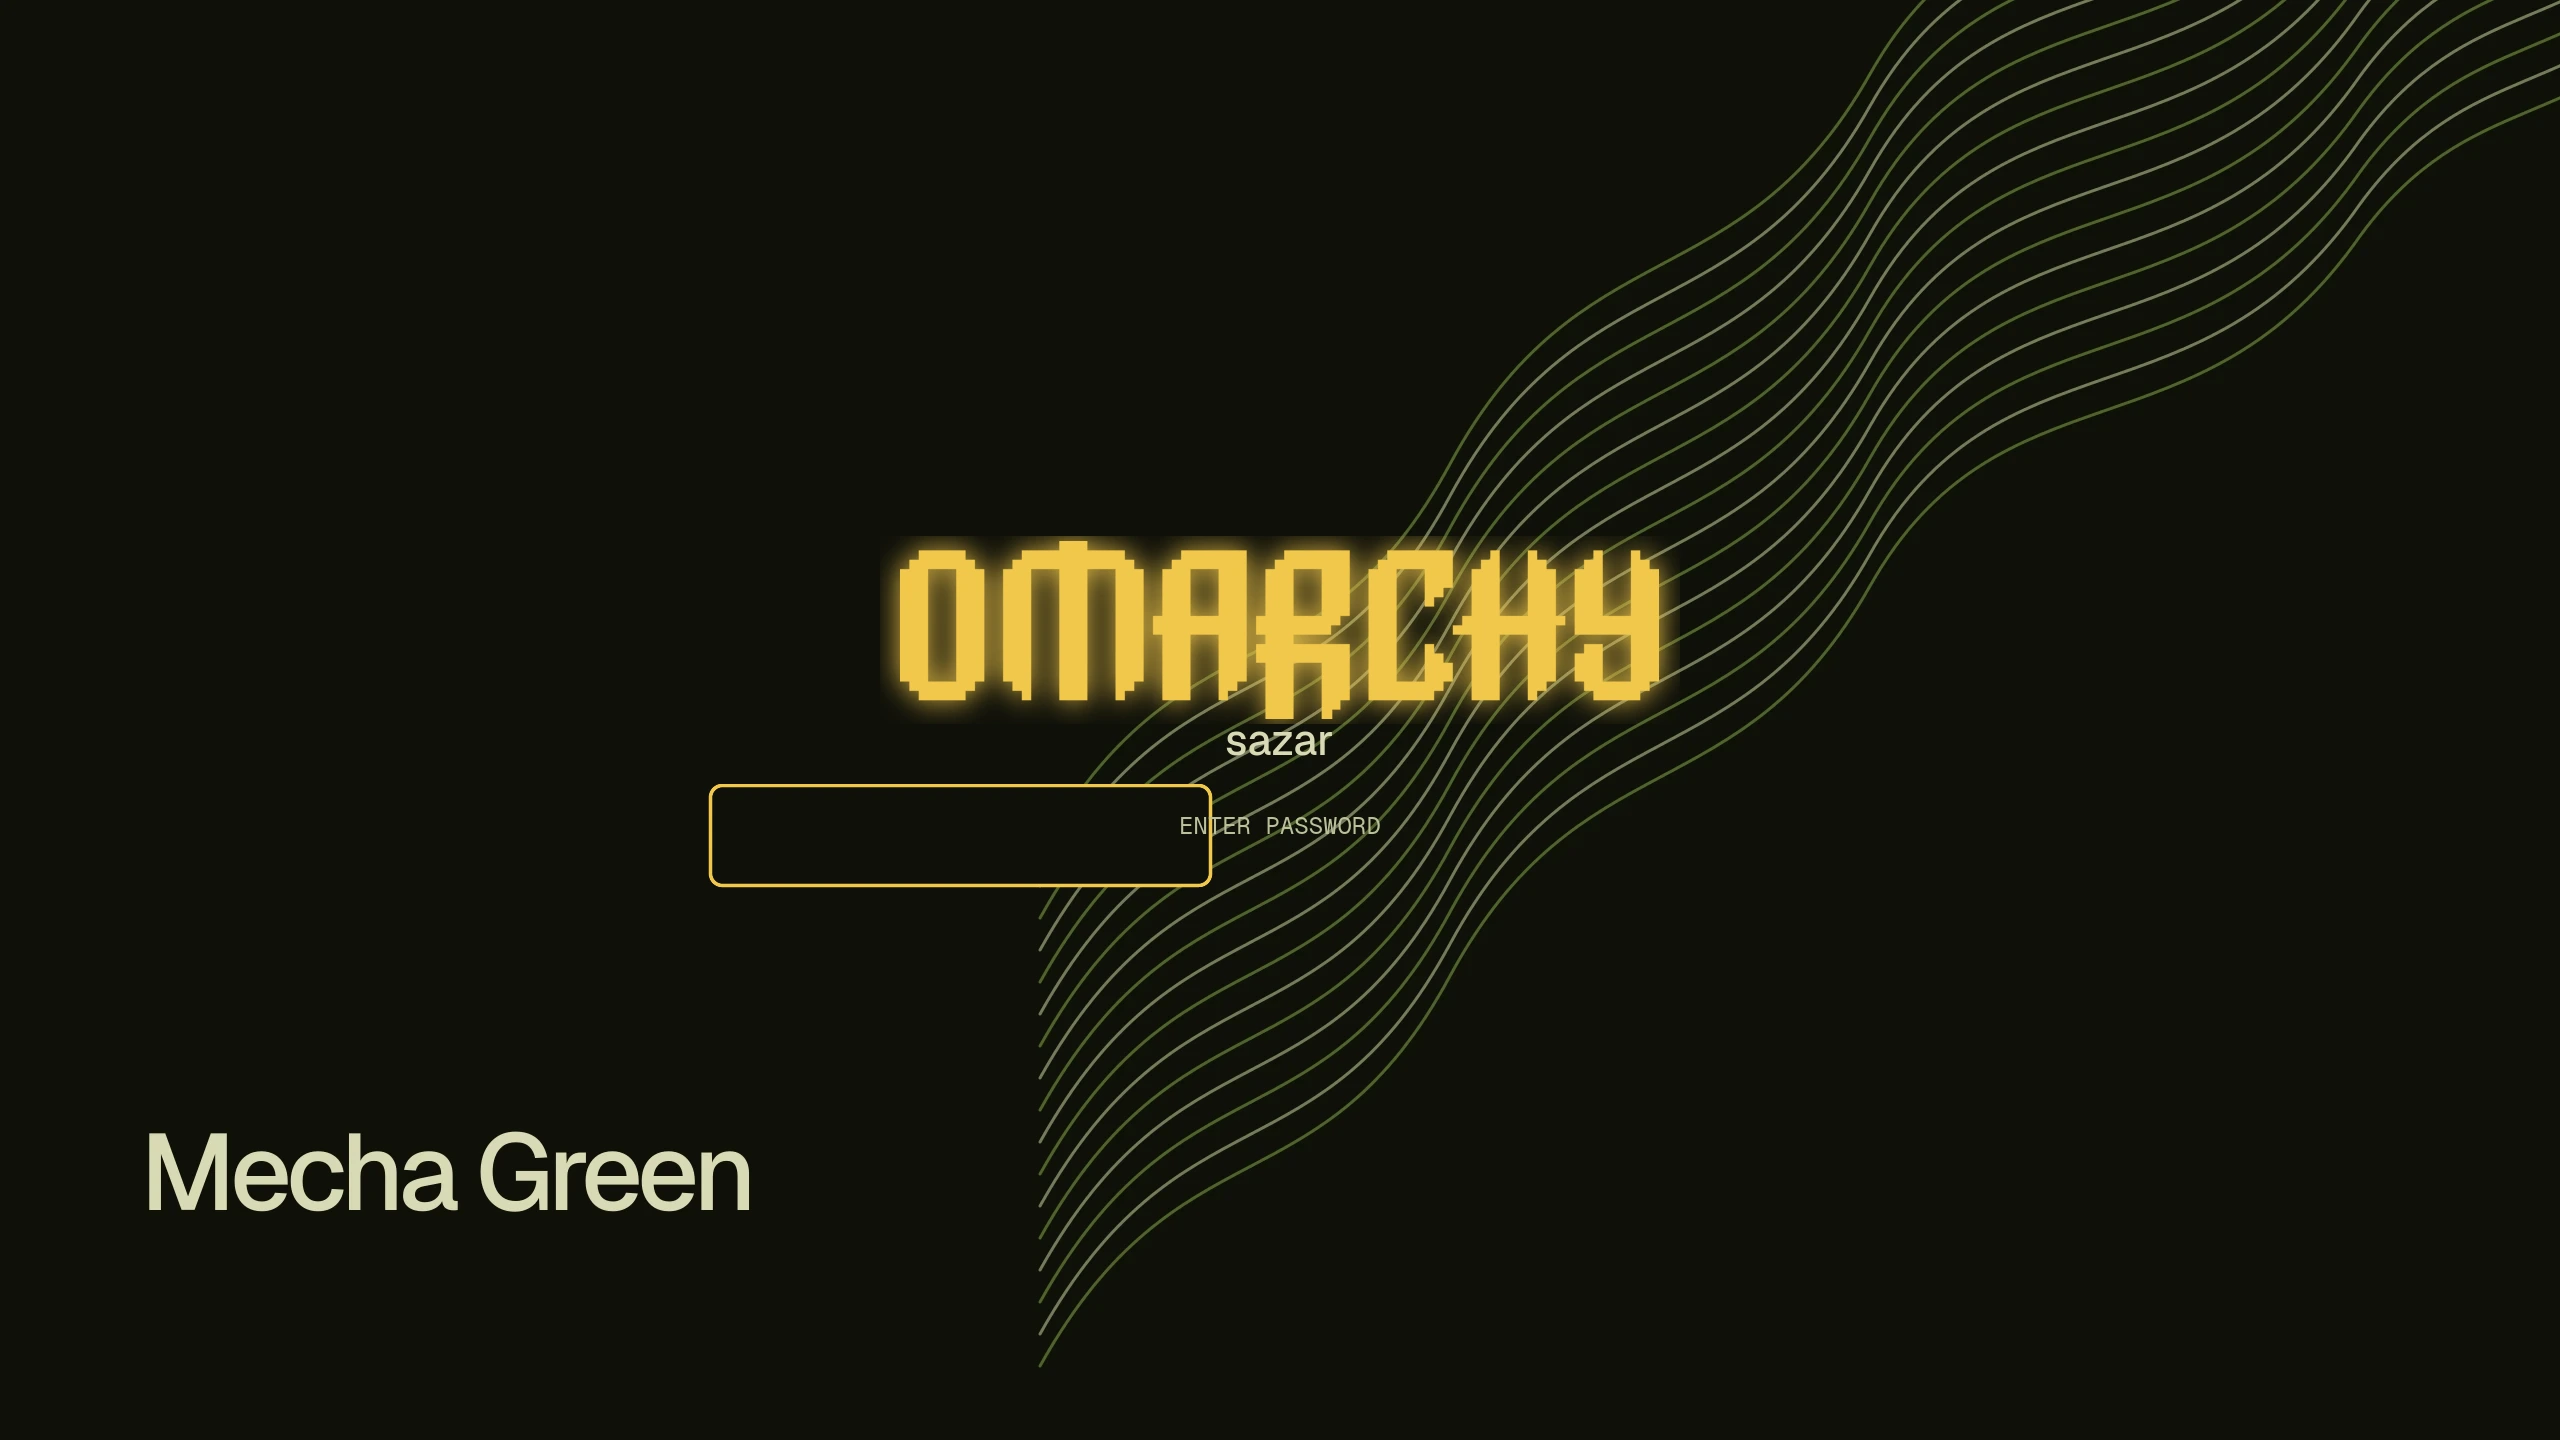
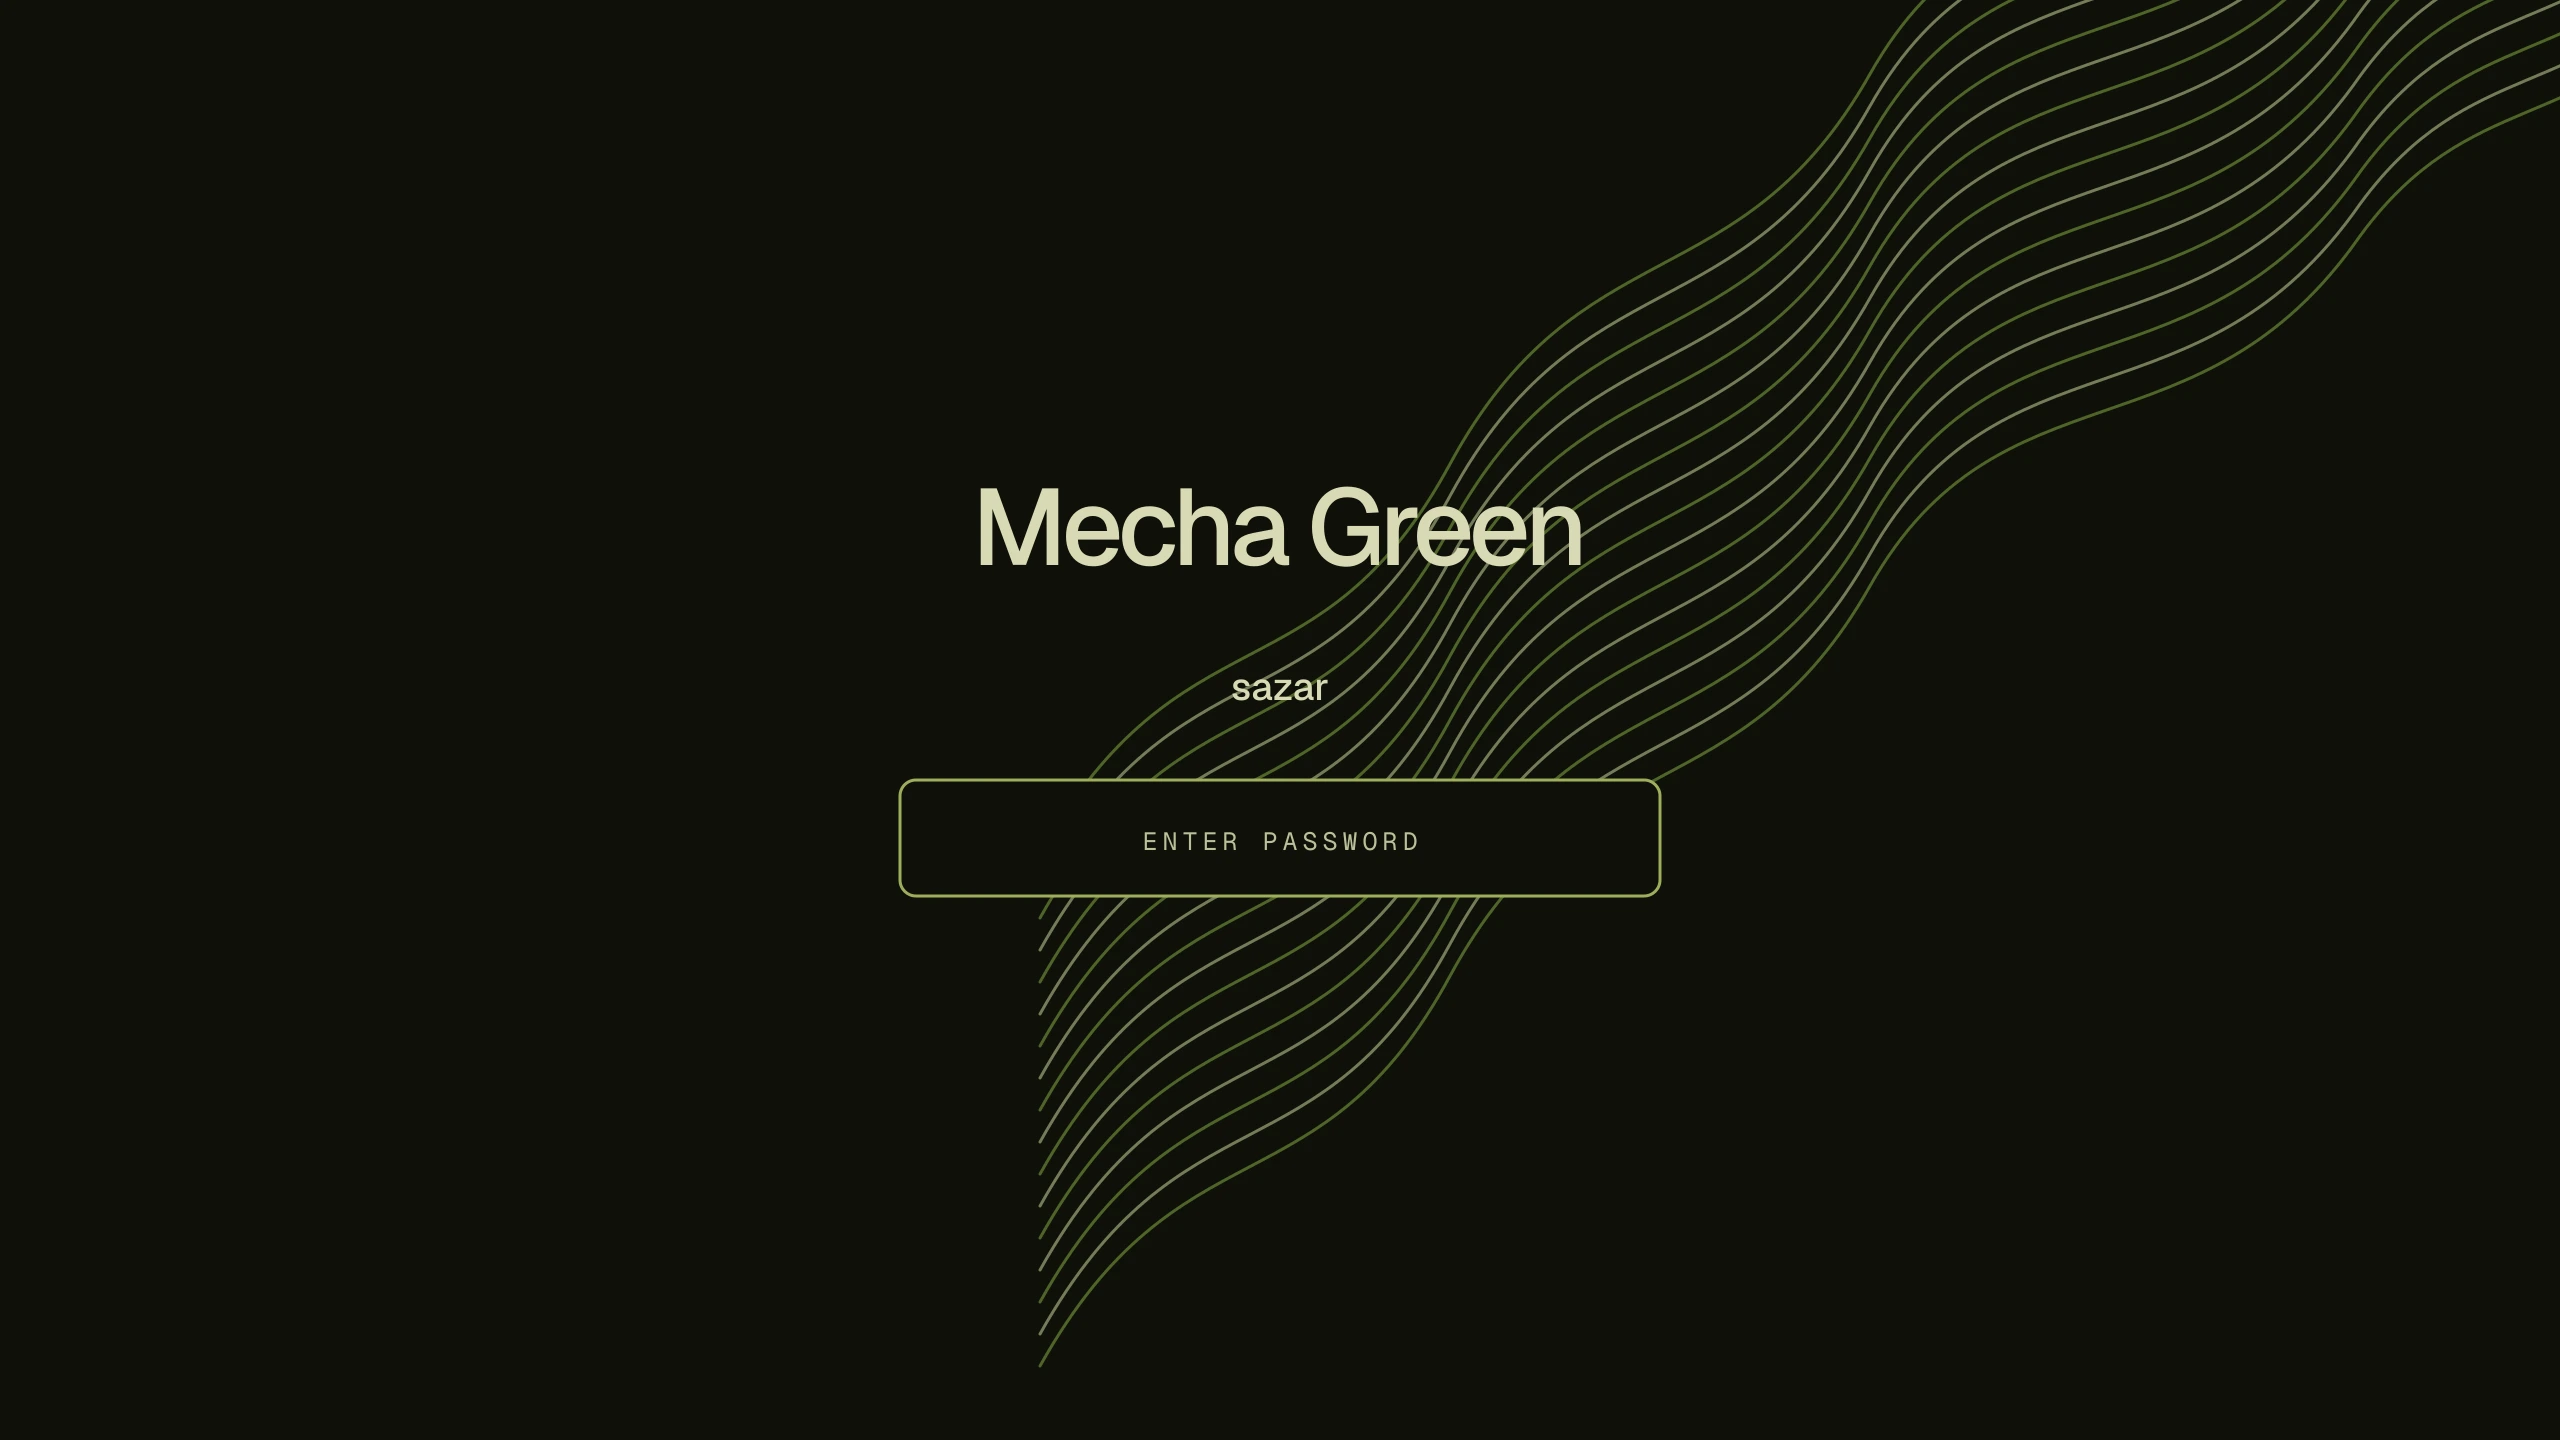
Apply Pascal-case flat system wordmark to SDDM and Plymouth

Changed region(s): [[0.2812, 0.3438, 0.6562, 0.625], [0.0312, 0.7812, 0.3125, 0.8438]]

diff --git a/proposals/system-brand/index.html b/proposals/system-brand/index.html
@@ -1,0 +1,26 @@
+<!doctype html>
+<html lang="es">
+<head>
+  <meta charset="utf-8">
+  <meta name="viewport" content="width=device-width, initial-scale=1">
+  <title>Mecha Green — System Brand Proposal</title>
+  <style>
+    :root{--sand:#e9e5cb;--surface:#f5f2df;--ink:#2b321a;--olive:#4f6428;--bronze:#7d5200;--line:#cdc9a4;--dark:#0e1009;--sans:"Geist",sans-serif;--mono:"Geist Mono",monospace}
+    *{box-sizing:border-box}body{margin:0;background:var(--sand);color:var(--ink);font-family:var(--sans)}main{width:min(1500px,calc(100% - 48px));margin:auto;padding:64px 0 80px}header{margin-bottom:36px}.eyebrow{margin:0 0 14px;color:var(--bronze);font:600 11px var(--mono);letter-spacing:.16em;text-transform:uppercase}h1{margin:0;font-size:clamp(42px,5vw,72px);font-weight:500;line-height:.96;letter-spacing:-.055em}.intro{max-width:760px;margin:22px 0 0;color:var(--olive);font-size:15px;line-height:1.65}.grid{display:grid;grid-template-columns:1fr 1fr;gap:24px}figure{margin:0;border:1px solid var(--line);background:var(--surface)}img{display:block;width:100%;aspect-ratio:16/9}figcaption{display:flex;justify-content:space-between;gap:16px;padding:16px 18px;border-top:1px solid var(--line);font:11px var(--mono)}.logo{margin-top:24px;display:grid;grid-template-columns:1fr 1fr;gap:24px}.logo-card{border:1px solid var(--line);background:var(--surface)}.logo-stage{display:grid;place-items:center;min-height:260px;background:var(--dark)}.logo-stage img{width:min(720px,80%);height:auto;aspect-ratio:auto}.logo-card figcaption{padding:16px 18px;font:11px var(--mono)}footer{margin-top:36px;padding-top:22px;border-top:1px solid var(--line);color:var(--olive);font:11px/1.7 var(--mono)}@media(max-width:900px){.grid,.logo{grid-template-columns:1fr}}
+  </style>
+</head>
+<body>
+<main>
+  <header><p class="eyebrow">Mecha Green / propuesta de marca de sistema</p><h1>Flat system<br>identity.</h1><p class="intro">Reemplazo del logo pixelado neón por un wordmark Geist plano, con la misma topografía del escritorio y una paleta olive/sand. Sin glow, sombras ni texto duplicado.</p></header>
+  <section class="grid">
+    <figure><img src="rendered/login.webp" alt="Propuesta de login SDDM"><figcaption><span>SDDM LOGIN</span><span>Geist + topographic</span></figcaption></figure>
+    <figure><img src="rendered/boot.webp" alt="Propuesta de arranque Plymouth"><figcaption><span>PLYMOUTH BOOT</span><span>Flat progress</span></figcaption></figure>
+  </section>
+  <section class="logo">
+    <figure class="logo-card"><div class="logo-stage"><img src="rendered/logo.png" alt="Nuevo wordmark Mecha Green"></div><figcaption>WORDMARK / 1200×240 PNG transparente</figcaption></figure>
+    <figure class="logo-card"><img src="rendered/background.webp" alt="Fondo topográfico sin wordmark"><figcaption>BACKGROUND / sin texto duplicado</figcaption></figure>
+  </section>
+  <footer>Propuesta pendiente de aprobación. Los archivos actuales de SDDM y Plymouth no han sido modificados.</footer>
+</main>
+</body>
+</html>

diff --git a/README.md b/README.md
@@ -21,9 +21,9 @@ Omarchy theme tuned to sit next to an MCHOSE Ace 75 in Mecha Green.**
   notifications, launcher and lock screen. The light theme flips it to sand
   and bronze.
 - **Themed boot, login and lock screens** — the same flat topographic brand on a
-  custom Plymouth splash and Mecha Green SDDM login, with the amber Omarchy mark
-  and password field. The lock screen inherits the current wallpaper and uses
-  the matching amber/sand tokens.
+  custom Plymouth splash and Mecha Green SDDM login, with a Pascal-case Geist
+  wordmark and olive/sand controls. The lock screen inherits the current
+  wallpaper and uses the matching tokens.
 - **Seven flat wallpapers + six live loops per theme** — the `0-topographic`
   brand default plus Drift, Fold, Field, Terrain, Panorama and Undulate. Every
   design has a dark/light still and a clean animated loop with fixed typography.
@@ -47,15 +47,15 @@ Omarchy theme tuned to sit next to an MCHOSE Ace 75 in Mecha Green.**
 
 | | |
 |---|---|
-| ![](screenshots/login-preview.webp)<br>**SDDM login** — Mecha Green system access | ![](screenshots/plymouth-preview.webp)<br>**Plymouth boot** — amber Omarchy mark and progress bar |
+| ![](screenshots/login-preview.webp)<br>**SDDM login** — Mecha Green system access | ![](screenshots/plymouth-preview.webp)<br>**Plymouth boot** — Geist wordmark and olive progress bar |
 
 - **Lock screen:** follows the current wallpaper, blurs it and applies the
   `[lock]` tokens from `shell.toml` — amber border, olive field, rust error
   state.
-- **SDDM login:** flat topographic background, Geist typography, amber Omarchy
-  mark, password field and multiuser selector.
-- **Plymouth boot:** the same flat topographic background with the amber Omarchy
-  mark and a matching amber progress bar.
+- **SDDM login:** flat topographic background, Pascal-case Geist wordmark,
+  olive password field and multiuser selector.
+- **Plymouth boot:** the same flat topographic background with the Geist wordmark
+  and a matching olive progress bar.
 
 The login and boot themes are system files, so they have their own installer:
 

diff --git a/system/plymouth/mecha-green/README.md b/system/plymouth/mecha-green/README.md
@@ -1,8 +1,8 @@
 # Mecha Green Plymouth boot splash
 
 A flat Plymouth theme using the desktop's topographic wave brand. It keeps the
-amber Omarchy mark, progress bar and disk-encryption prompt, without the old
-HUD rings, glow, gradients or microtext.
+Pascal-case Mecha Green wordmark, olive progress bar and disk-encryption prompt,
+without the old HUD rings, glow, gradients or microtext.
 
 ![Mecha Green boot preview](preview.webp)
 
@@ -13,8 +13,8 @@ HUD rings, glow, gradients or microtext.
 | `mecha-green.plymouth` | Theme descriptor |
 | `mecha-green.script` | Plymouth script (background, layout, progress) |
 | `background.png` | 2560×1440 flat topographic brand background |
-| `logo.png` | Amber Omarchy wordmark |
-| `progress_box.png` / `progress_bar.png` | Amber-on-olive progress bar |
+| `logo.png` | Pascal-case Geist Mecha Green wordmark |
+| `progress_box.png` / `progress_bar.png` | Flat olive progress bar |
 | `entry.png` / `lock.png` / `bullet.png` | Encryption password prompt |
 | `preview.webp` | 2560×1440 design preview |
 

diff --git a/CHANGELOG.md b/CHANGELOG.md
@@ -1,5 +1,13 @@
 # Changelog
 
+## 1.7.3 — 2026-11-24
+
+- Replaced the pixelated Omarchy system logo with a flat Pascal-case
+  `Mecha Green` Geist wordmark.
+- Updated SDDM and Plymouth controls to the olive/sand palette, removed the
+  duplicated background wordmark and refreshed the system previews.
+- Added reproducible system-brand rendering to `render-system-assets.sh`.
+
 ## 1.7.2 — 2026-11-24
 
 - Removed the optional Halo wallpaper filename and credit tables from the main

diff --git a/system/sddm/mecha-green/README.md b/system/sddm/mecha-green/README.md
@@ -1,8 +1,8 @@
 # Mecha Green login
 
 A flat SDDM theme using the same topographic wave brand as the desktop. The
-login keeps only the Omarchy mark, user selector and password field, with Geist
-typography and no HUD, glow, gradients or shadows.
+login keeps only the Pascal-case Mecha Green wordmark, user selector and
+password field, with Geist typography and no HUD, glow, gradients or shadows.
 
 ![Mecha Green login](preview.webp)
 
